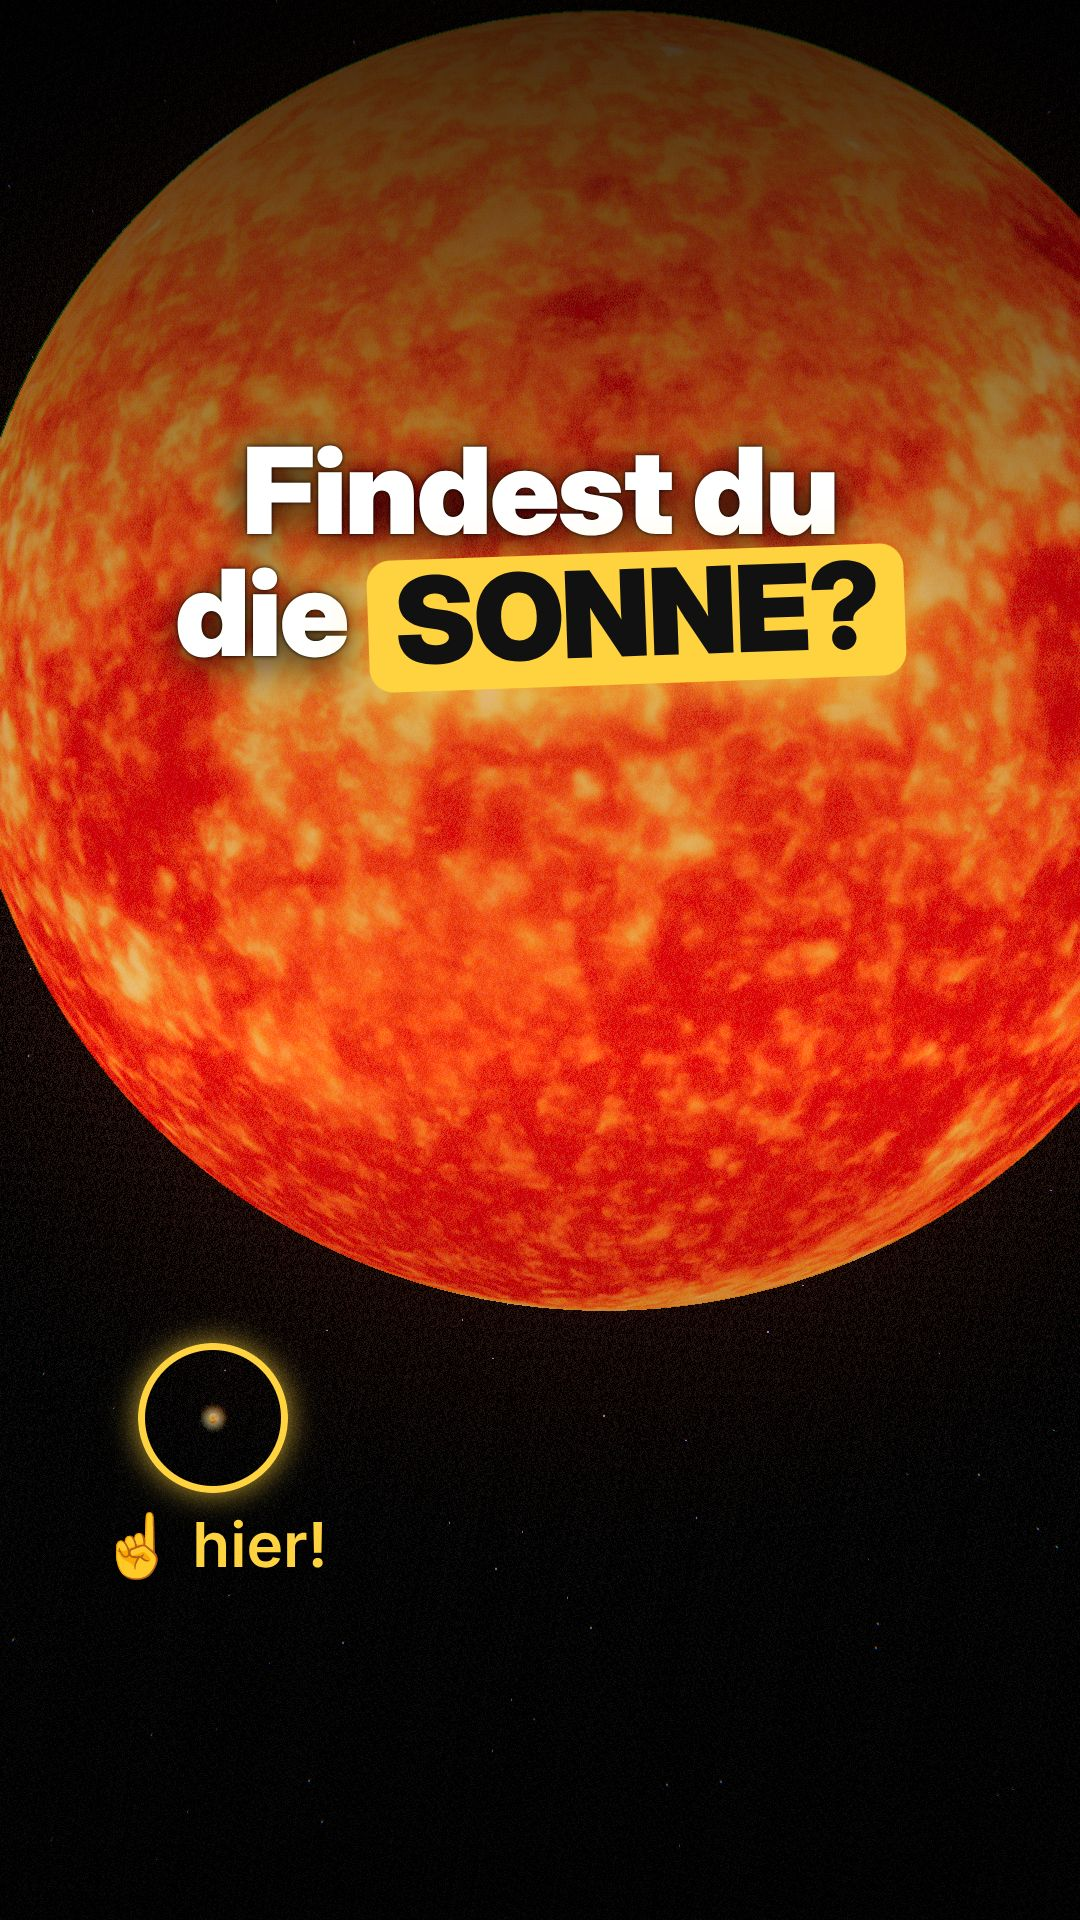
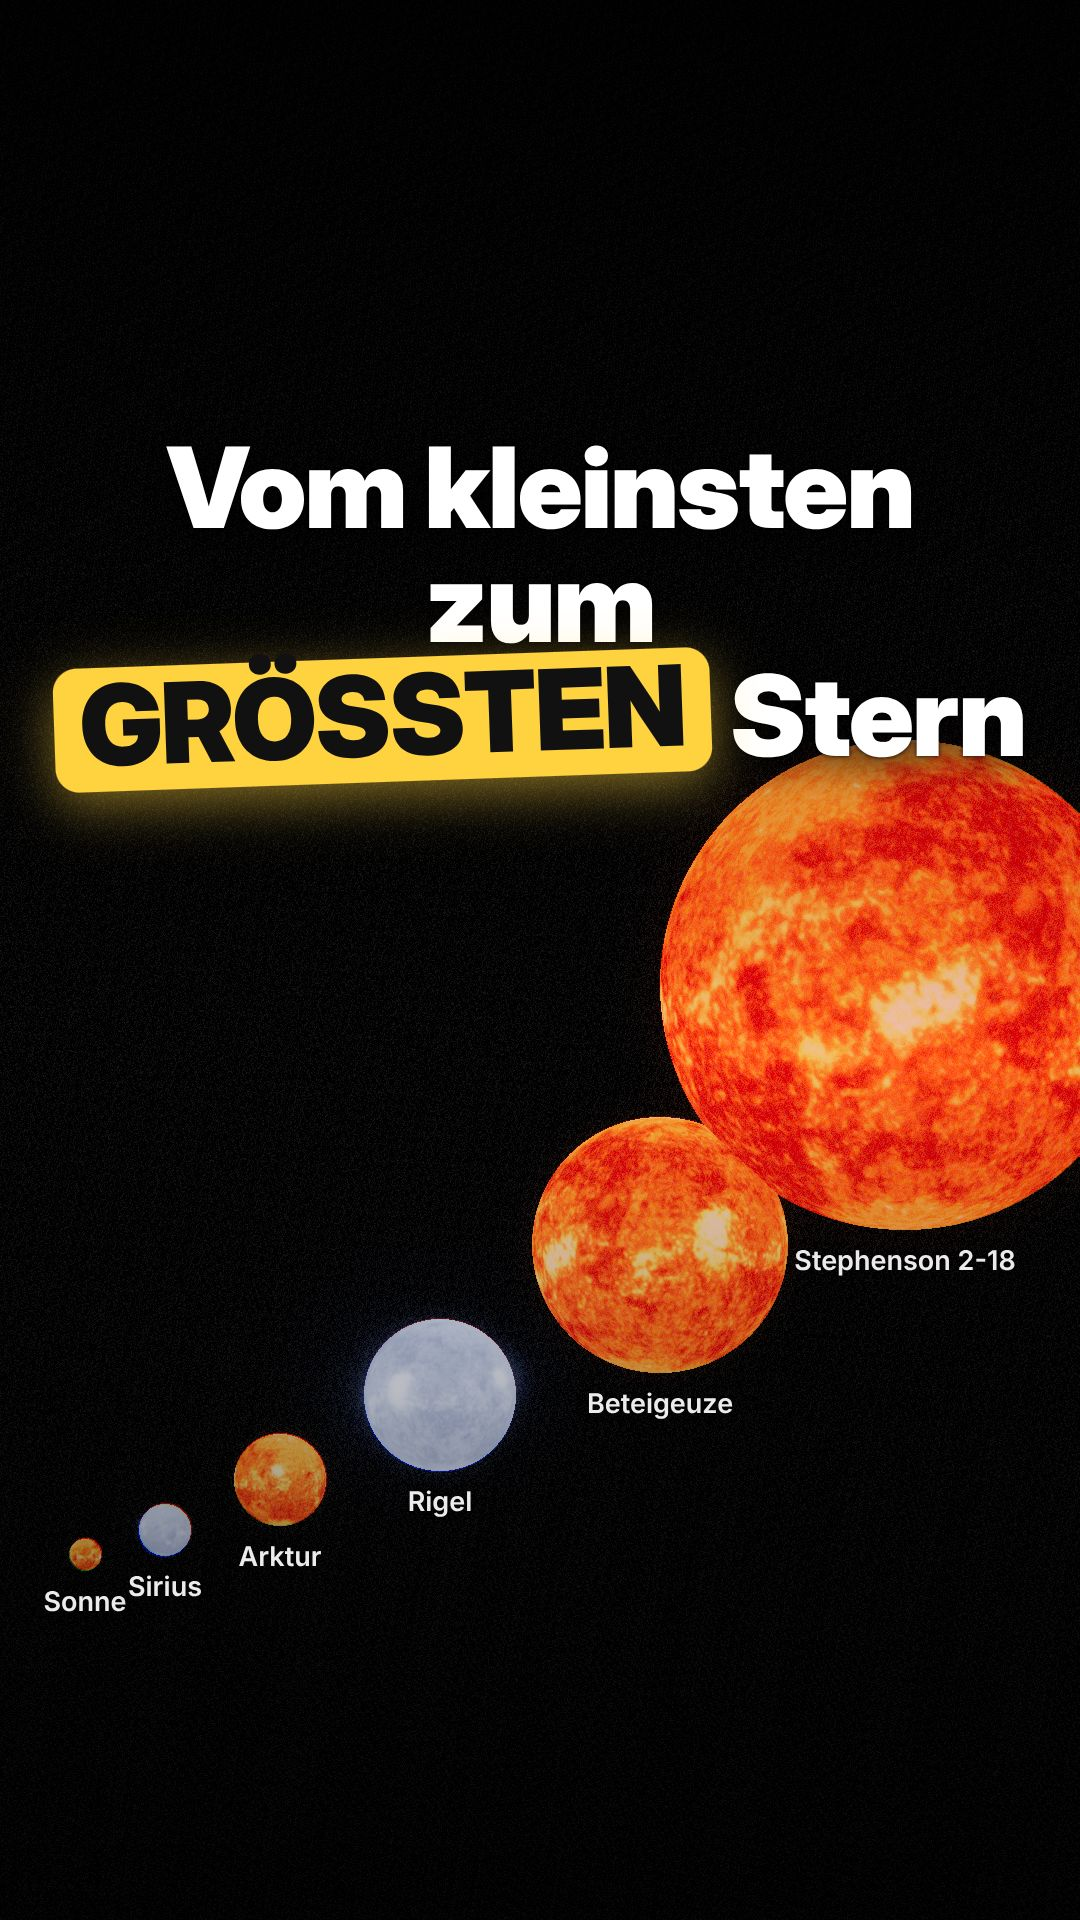
Neue Titelbilder Longform: Sterne-Treppe
Claude-Session: https://claude.ai/code/session_01FsjuXeTmSYBuwqeyjhEKRB

diff --git a/videos/sterne-groesse/thumb-szene.js b/videos/sterne-groesse/thumb-szene.js
@@ -151,13 +151,17 @@ renderAt = (tt) => {
   seg(t.zu, t.punkt - 0.1, "Weißer Zwerg" + sub("≈ so groß wie die Erde")); seg(t.punkt + 0.3, t.abo - 0.1, "unsere Zukunft ✨");
   word(wh, wa); cap(tt);
 };
-// ===== Titelbild-Komposition (nur für thumb, t < 1) =====
-const _orig = renderAt; const tSun = starBall(SB, 16, 0, [1.3, 1.0, 0.72], "rgba(255,190,90,.9)", 7);
-renderAt = (tt) => { if (tt >= 1) return _orig(tt);
-  const st = B.st; OB.forEach((k) => { if (k !== 'st') { B[k].visible = false; B[k].userData.glow.visible = false; } }); tSun.position.set(XB.st - RB.st * (LAND ? 1.45 : 0.62), LAND ? -RB.st * 0.25 : -RB.st * 1.18, 0); tSun.userData.glow.position.copy(tSun.position); tSun.userData.glow.material.opacity = 1; tSun.material.color.setRGB(2, 1.6, 1.1);
-  const look = V(XB.st - RB.st * (LAND ? 0.55 : 0.1), LAND ? 0 : -RB.st * 0.45, 0); const pos = look.clone().add(V(0, 0, RB.st * (LAND ? 2.5 : 4.2)));
-  cam.fov = 40; cam.near = 10; cam.far = 1e8; cam.updateProjectionMatrix(); cam.position.copy(pos); cam.lookAt(look); E.look([1, 1, 1], [0, 0, 0], 0.4, 0.85); E.render(SB, tt);
-  const v = tSun.position.clone().project(cam); const x = (v.x * 0.5 + 0.5) * window.FMT.W, y = (-v.y * 0.5 + 0.5) * window.FMT.H;
+// ===== Titelbild: Sterne-Treppe (t < 1) =====
+const _o = renderAt; const ST2 = new THREE.Scene(); K.reseed(3); K.stars(ST2, 5000, -1, 4e6, 1.6).material.opacity = 0.5;
+const LINE = [["Sonne", "so", 26], ["Sirius", "si", 40], ["Arktur", "ar", 70], ["Rigel", "ri", 112], ["Beteigeuze", "be", 190], ["Stephenson 2-18", "st", 340]];
+const tb = LINE.map(([n, k, r]) => ({ n, r, m: starBall(ST2, r, 0, k === "si" || k === "ri" ? [0.7, 0.9, 1.7] : COL[k][0], k === "si" || k === "ri" ? "rgba(140,180,255,.7)" : COL[k][1], 2.6, k === "si" || k === "ri") }));
+renderAt = (tt) => { if (tt >= 1) return _o(tt);
+  const Wd = window.FMT.W, Hd = window.FMT.H; let x = LAND ? -Wd / 2 + 70 : -Wd / 2 + 40; const base = LAND ? -Hd / 2 + 150 : -Hd / 2 + 520; const sc = LAND ? 1 : 0.52;
+  const out = []; if (!LAND) { const PP = [[85, 1555, 16], [165, 1530, 26], [280, 1480, 46], [440, 1395, 76], [660, 1245, 128], [905, 985, 245]];
+    tb.forEach((b, i) => { const [cx, cy, r] = PP[i]; const x = cx - Wd / 2, y = Hd / 2 - cy; b.m.position.set(x, y, 0); b.m.scale.setScalar(r / b.r); b.m.userData.glow.position.set(x, y, -r * 0.2); b.m.userData.glow.scale.setScalar(r * 2.6); b.m.rotation.y = i; out.push([b.n, x, y - r]); }); }
+  else tb.forEach((b, i) => { const r = b.r * sc; x += r; const y = base + r + (LAND ? i * 6 : i * 4);  b.m.position.set(x, y, 0); b.m.scale.setScalar(sc); b.m.userData.glow.position.set(x, y, -r * 0.2); b.m.userData.glow.scale.setScalar(r * 2.6); b.m.rotation.y = i; out.push([b.n, x, y - r]); x += r + (LAND ? 46 : 14); });
+  const D = 20000; const fov = 2 * Math.atan(Hd / 2 / D) * 180 / Math.PI; cam.fov = fov; cam.near = 100; cam.far = 1e6; cam.updateProjectionMatrix(); cam.position.set(0, 0, D); cam.lookAt(0, 0, 0);
+  E.look([1, 1, 1], [0, 0, 0], 0.35, 0.85); E.render(ST2, tt);
   let o = document.getElementById("thx"); if (!o) { o = document.createElement("div"); o.id = "thx"; o.style.cssText = "position:absolute;inset:0;z-index:120;pointer-events:none"; document.getElementById("root").appendChild(o); }
-  const R = LAND ? 60 : 75; o.innerHTML = `<div style="position:absolute;left:${x - R}px;top:${y - R}px;width:${2 * R}px;height:${2 * R}px;border:7px solid #ffd23f;border-radius:50%;box-shadow:0 0 30px rgba(255,210,63,.8)"></div><div style="position:absolute;left:${x - 160}px;top:${y + R + 14}px;width:320px;text-align:center;font:900 ${LAND ? 52 : 62}px Inter,sans-serif;color:#ffd23f;text-shadow:0 4px 20px #000">☝ hier!</div><div style="position:absolute;right:${LAND ? 60 : 0}px;left:${LAND ? "auto" : "0"};bottom:${LAND ? 50 : 560}px;display:${LAND ? "block" : "none"};text-align:center;font:800 ${LAND ? 40 : 50}px Inter,sans-serif;color:#fff;text-shadow:0 4px 20px #000">Stephenson 2-18</div>`;
+  o.innerHTML = out.map(([n, px, py]) => `<div style="position:absolute;left:${Wd / 2 + px - 200}px;top:${Hd / 2 - py + 14}px;width:400px;text-align:center;font:800 ${LAND ? 30 : 27}px Inter,sans-serif;color:rgba(255,255,255,.92);text-shadow:0 3px 14px #000">${n}</div>`).join("");
 };

diff --git a/wissen/REGELN.md b/wissen/REGELN.md
@@ -68,7 +68,7 @@ Vorlage/Baukasten: `wissen/kit/` (neu.sh, kit.js, kit.css, mix.py, fertig.sh, sn
 
 ## Longform-Titelbilder (Nutzer 20.11.): nicht wie das alte aussehen
 - Jedes Titelbild muss sich klar von den bisherigen unterscheiden (nicht wieder „Kugeln in einer Reihe + Titel“).
-- Clevere Idee mit Neugier, z. B. „Findest du die SONNE?“: riesiger Stern + winziger Punkt mit gelbem Kreis. Code: `videos/sterne-groesse/thumb-szene.js` (eigene Kamera bei t < 1).
+- Muss zum Inhalt passen. „Findest du die SONNE?“ mit Kreis + „hier!“-Knopf fand der Nutzer SCHRECKLICH. Gut: Sterne-Treppe klein → riesig mit Namen, Titel „Vom kleinsten zum GRÖSSTEN Stern“. Code: `videos/sterne-groesse/thumb-szene.js` (eigene Szene bei t < 1).
 
 ## Longform (Nutzer 20.11.)
 - Lange Videos (16:9 und 9:16) KOMPLETT OHNE Untertitel: in szene.json `.capw, #cap-in { display: none !important; }` (bei 16:9 in `css_land`).
